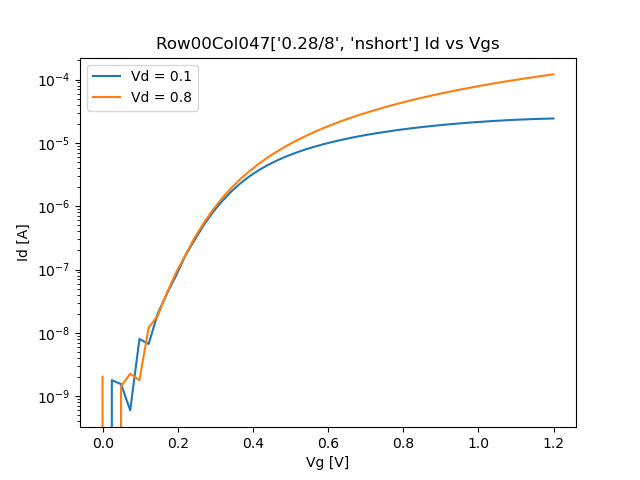
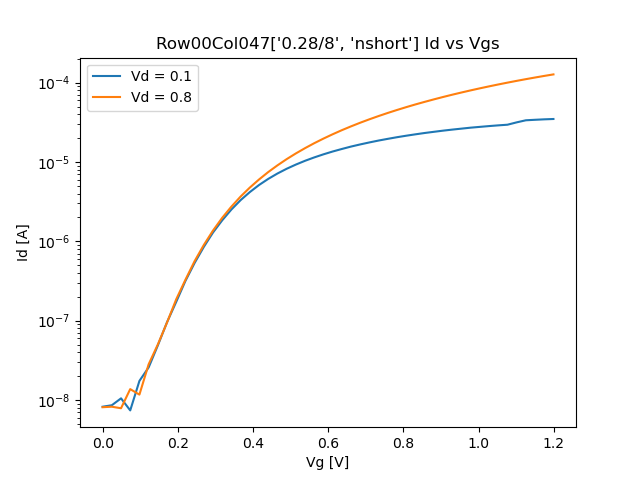
update

diff --git a/Python/idvgChar.py b/Python/idvgChar.py
@@ -42,6 +42,8 @@ def bankNum(bank):
         csIn = 5
         picLoc = "C:\\Users\\UTChattsat\\miniconda3\\envs\\testequ\\RTSeval\\Python\\Data\\idvgCharacterization\\Bank 1\\idvgcharData"
         fileLoc = '~/miniconda3/envs/testequ/RTSeval/Python/Data/idvgCharacterization/Bank 1/idvgcharData'
+        limiti = 0.001
+        rangei = pow(10, -3)
     elif bank == 2:
         colStart = 33
         colEnd = colStart + 32
@@ -52,6 +54,8 @@ def bankNum(bank):
         csIn = 5
         picLoc = "C:\\Users\\UTChattsat\\miniconda3\\envs\\testequ\\RTSeval\\Python\\Data\\idvgCharacterization\\Bank 2\\idvgcharData"
         fileLoc = '~/miniconda3/envs/testequ/RTSeval/Python/Data/idvgCharacterization/Bank 2/idvgcharData'
+        limiti = 0.001
+        rangei = pow(10, -3)
     elif bank == 3:
         colStart = 65
         colEnd = colStart + 32
@@ -62,6 +66,8 @@ def bankNum(bank):
         csIn = 5
         picLoc = "C:\\Users\\UTChattsat\\miniconda3\\envs\\testequ\\RTSeval\\Python\\Data\\idvgCharacterization\\Bank 3\idvgcharData"
         fileLoc = '~/miniconda3/envs/testequ/RTSeval/Python/Data/idvgCharacterization/Bank 3/idvgcharData'
+        limiti = 0.01
+        rangei = pow(10, -2)
     elif bank == 4:
         colStart = 97
         colEnd = colStart + 32
@@ -72,6 +78,8 @@ def bankNum(bank):
         csIn = 5
         picLoc = "C:\\Users\\UTChattsat\\miniconda3\\envs\\testequ\\RTSeval\\Python\\Data\\idvgCharacterization\\Bank 4\\idvgcharData"
         fileLoc = '~/miniconda3/envs/testequ/RTSeval/Python/Data/idvgCharacterization/Bank 4/idvgcharData'
+        limiti = 0.001
+        rangei = pow(10, -3)
     elif bank == 5:
         colStart = 129
         colEnd = colStart + 32
@@ -82,7 +90,9 @@ def bankNum(bank):
         csIn = 6
         picLoc = "C:\\Users\\UTChattsat\\miniconda3\\envs\\testequ\\RTSeval\\Python\\Data\\idvgCharacterization\\Bank 5\\idvgcharData"
         fileLoc = '~/miniconda3/envs/testequ/RTSeval/Python/Data/idvgCharacterization/Bank 5/idvgcharData'
-    return rowStart, rowEnd, colStart, colEnd, colS, rowS, sweepList, vdList, csIn, picLoc, fileLoc
+        limiti = 0.001
+        rangei = pow(10, -3)
+    return rowStart, rowEnd, colStart, colEnd, colS, rowS, sweepList, vdList, csIn, picLoc, fileLoc, limiti, rangei
 
 def powerPico():                                                                    # Turns on the vPwr pins for pi pico
     write_cmd(str(7))                                                               # selects the switch case on the pico
@@ -104,7 +114,7 @@ specData = pd.DataFrame(pd.read_csv('~\miniconda3\envs\\testequ\RTSeval\Files\RT
 dieX = '6p'
 dieY = '3'
 
-rowStart, rowEnd, colStart, colEnd, colS, rowS, sweepList, vdList, csIn, picLoc, fileLoc = bankNum(1)        # selects the bank to test
+rowStart, rowEnd, colStart, colEnd, colS, rowS, sweepList, vdList, csIn, picLoc, fileLoc, limiti, rangei = bankNum(4)        # selects the bank to test
 colBegin = colS
 smu.apply_voltage(smu.smua, 0.0)
 smu.apply_voltage(smu.smub, 0.0)
@@ -117,9 +127,15 @@ for row in range(rowStart, rowEnd):
         commandRX = tuple(pico.read_until().strip().decode().split(','))
         commandRX, rowRX, columnRX = commandRX
         # end_command_time = time.time()
+        rowRX = re.sub(r'[0-9]+$',
+                lambda x: f"{str(int(x.group())-1).zfill(len(x.group()))}",    # decrements the number in the row number
+                rowRX)  
+        columnRX = re.sub(r'[0-9]+$',
+                lambda x: f"{str(int(x.group())-1).zfill(len(x.group()))}",    # decrements the number in the colimn number
+                columnRX)    
         print('pico confirmed: ' + str(commandRX))
-        print('pico selected row: ' + str(rowRX - 1))
-        print('pico selected column: ' + str(columnRX - 1))
+        print('pico selected row: ' + str(rowRX))
+        print('pico selected column: ' + str(columnRX))
         # start_response_time = time.time()
         commandRX = int(pico.read_until().strip().decode())                             # confirms shift registers are loaded
         print(f'pico loaded the shift registers')                           # confirms shift registers are loaded
@@ -128,7 +144,7 @@ for row in range(rowStart, rowEnd):
         spec = list(specData.iloc[col-1])
         smu._write(value = "smua.measure.autozero = smua.AUTOZERO_AUTO")
         smu.smub.measure.v()
-        currOut, measVd, measVg= smu.vdvgChar(smu.smua, smu.smub, sweepList, vdList, .001, .01)
+        currOut, measVd, measVg= smu.vdvgChar(smu.smua, smu.smub, sweepList, vdList, .001, .01, limiti, rangei)
         # vGS = measVs 
         # for i in range(len(measVs)):
         #     vGS[i] = 1.2 - vGS[i]
@@ -137,6 +153,7 @@ for row in range(rowStart, rowEnd):
         pltData["Vd"] = measVd
         pltData["Vg"] = measVg
         pltData["Id"] = currOut
+        # print(pltData['Id'])
         pltData1Id = pltData.loc[:49, 'Id']
         pltData2Id = np.sqrt(abs(pltData.loc[50:99, 'Id']))
         pltData1Vg = pltData.loc[:49, 'Vg']
@@ -166,14 +183,14 @@ for row in range(rowStart, rowEnd):
         pltData["Row"] = row
         pltData['Column'] = col
 
-        if ((col  % 2 == 0) and (row <= 2)):
+        if ((col % 2 == 1) and (row <= 2)):
             vth1 = pltData.at[1, "Vth"]
             vth2 = pltData.at[51, "Vth"]
             grouped = pltData.groupby(pltData.Vth) 
             pltData1 = grouped.get_group(vth1)
             pltData2 = grouped.get_group(vth2)
-            plt.plot(pltData1["Vg"], pltData1["Id"], label = "Vd = 0.1")
-            plt.plot(pltData2["Vg"], pltData2["Id"], label = "Vd = 0.8")
+            plt.plot(pltData1["Vg"], pltData1["Id"], label = "Vd = " + str(vdList[0]))
+            plt.plot(pltData2["Vg"], pltData2["Id"], label = "Vd = " + str(vdList[1]))
             # plt.figtext(.4, .15, "Vg = 1.2 V, Vdd = 1.2 V", fontsize = 10)
             # plt.figtext(.4, .2, "Ibias = 20 uA to .1 nA, AmpBias = .5 mA", fontsize = 10)
             # plt.figtext(.4, .25, "column = " + str(colS) + ", row = " + str(rowS), fontsize = 10)

diff --git a/Python/keithleyDriver.py b/Python/keithleyDriver.py
@@ -1433,7 +1433,9 @@ class Keithley2600(Keithley2600Base):
                         vgList: Sequence[float],
                         vdList: Sequence[float],
                         delay: float,
-                        t_int: float):
+                        t_int: float,
+                        limiti: float,
+                        rangei: float):
             
         with self._measurement_lock:
             timestamp = []
@@ -1450,10 +1452,10 @@ class Keithley2600(Keithley2600Base):
                 smu.nvbuffer1.appendmode = 1
             smu1.nvbuffer2.collecttimestamps = 0
             smu2.measure.rangev = 4
-            smu1.measure.rangei = pow(10, -3)
             smu1.measure.autozero = smu.AUTOZERO_OFF
             smu2.measure.autozero = smu.AUTOZERO_AUTO
-            smu1.source.limiti = 0.001
+            smu1.source.limiti = limiti
+            smu1.measure.rangei = rangei
 
             self.trigger.blender[1].orenable = True
             self.trigger.blender[1].stimulus[1] = smu1.trigger.ARMED_EVENT_ID            #when moved from arm to trigger layer

diff --git a/Python/Test/importcsvTest.py b/Python/Test/importcsvTest.py
@@ -183,8 +183,11 @@ def fourT (fileLoc):
 # # print(data)
 # data.to_csv('~/miniconda3/envs/testequ/RTSeval/Python/Data/rtsData/rtsDataidvgsMod.csv')
 
-data = inport(fileLoc, 0 , 0, ['Site', 'Type', 'Vd', 'Vg', 'Id', 'W/L', 'Vth', 'Gm'])
-grouped = data.groupby(data.Gm) 
-vthData1 = grouped.get_group(max(data.Gm))
-vthEx = vthData1.Vd - 1
-print(vthEx)
+# data = inport(fileLoc, 0 , 0, ['Site', 'Type', 'Vd', 'Vg', 'Id', 'W/L', 'Vth', 'Gm'])
+# grouped = data.groupby(data.Gm) 
+# vthData1 = grouped.get_group(max(data.Gm))
+# vthEx = vthData1.Vd - 1
+# print(vthEx)
+list = np.linspace(0, 3.3)
+vdList = [0.1, 0.8] 
+print(str(vdList[1]))
